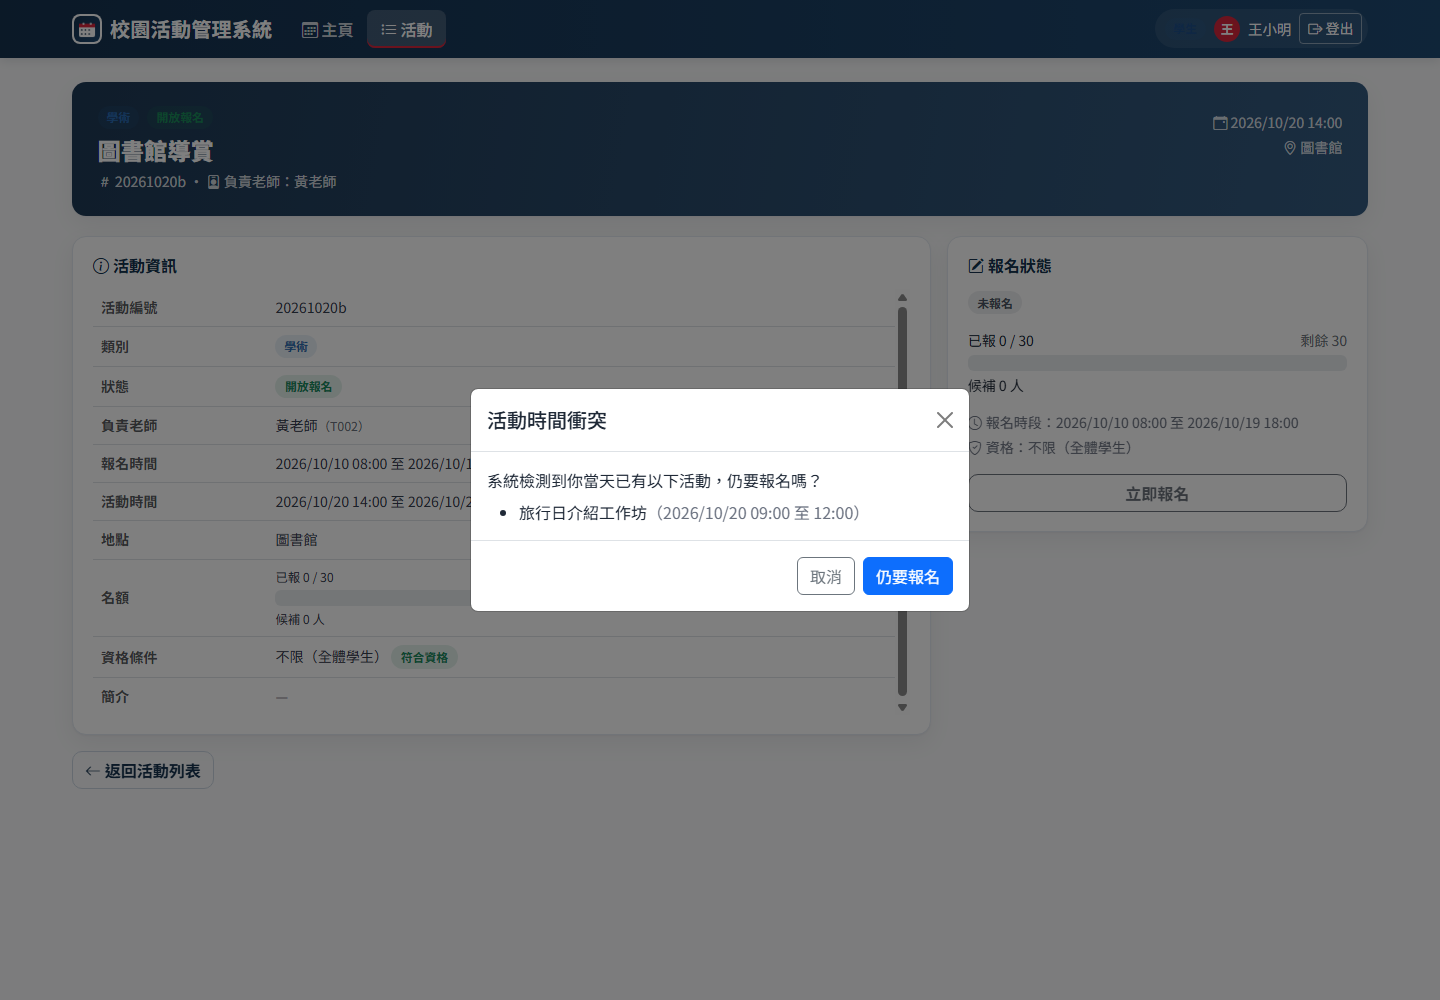
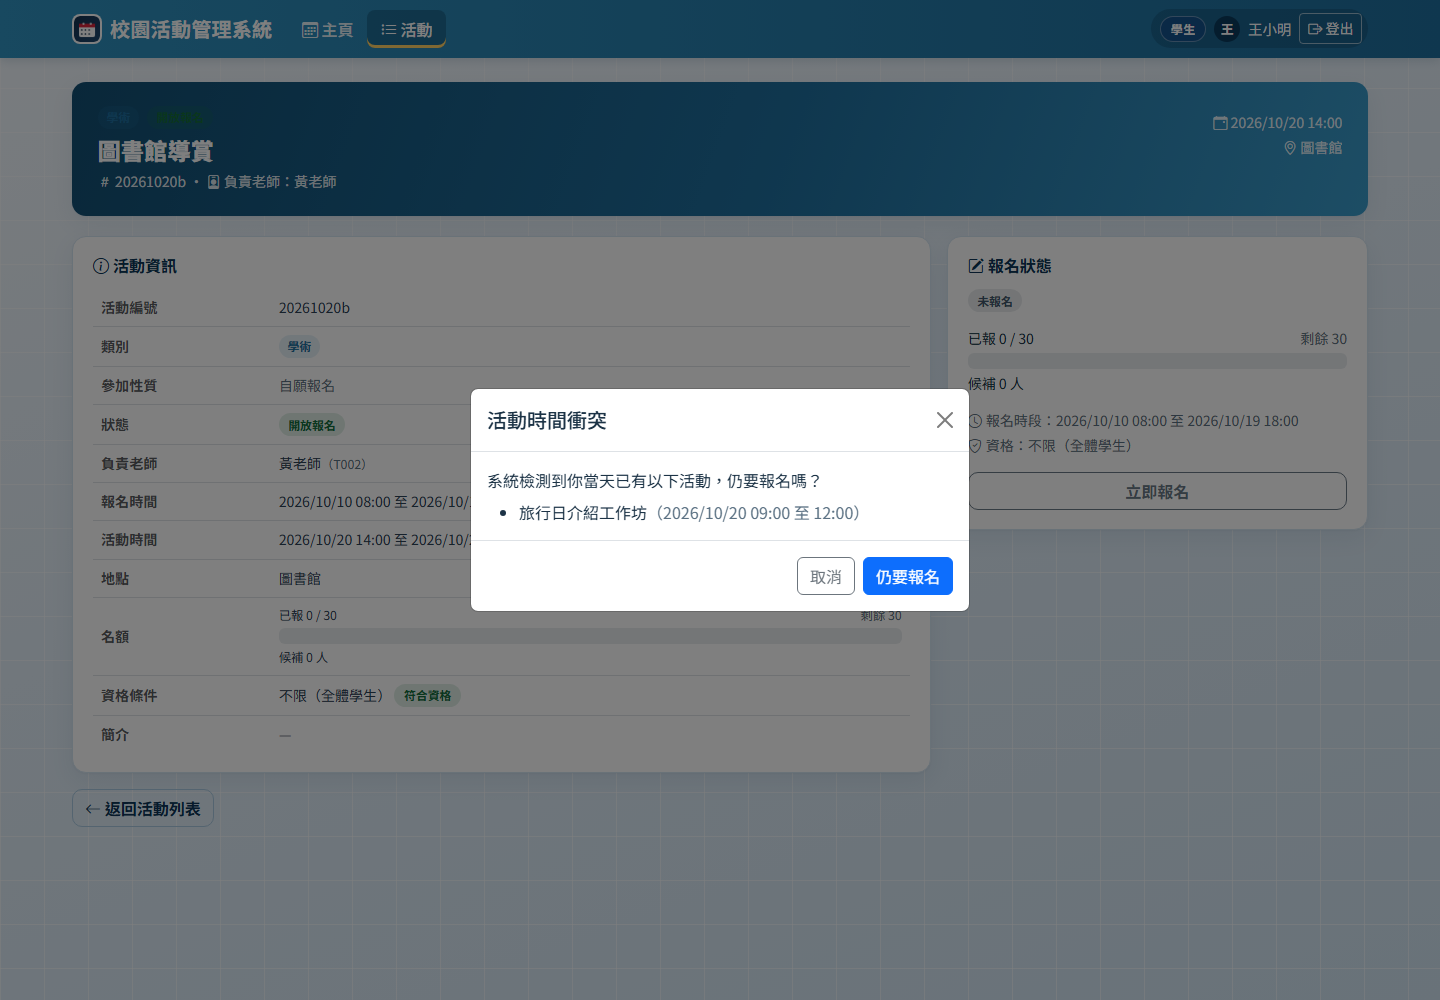
docs(v1.1): 更新測試報告（45/45）、17 張截圖、運行說明與測試帳號示範路線

diff --git a/README.md b/README.md
@@ -9,11 +9,11 @@
 
 | 角色 | 可以做甚麼 |
 | --- | --- |
-| **學生 Student** | 用日曆／列表瀏覽活動 → 查看詳情（時間有否撞期、名額是否已滿、自己是否符合資格）→ 報名（滿額自動進入候補）→ 取消報名 → 查看「已參加／未參加」 |
-| **老師 Teacher** | 新增／修改／取消自己負責的活動 → 查看報名名單 → 標記出席 → 收到每日活動提醒電郵 |
+| **學生 Student** | 用日曆／列表瀏覽活動 → 查看詳情（時間有否撞期、名額是否已滿、自己是否符合資格）→ 報名（滿額自動進入候補）→ 取消報名 → 查看「已參加／未參加」（必須參加的活動會自動報名，不可取消） |
+| **老師 Teacher** | 新增／修改／取消自己負責的活動（資格用點選式多選：班級／年級／學會）→ 設定「必須參加」讓合資格學生自動報名 → 查看報名名單 → 活動開始後標記出席 → 收到每日活動提醒電郵 |
 | **管理員 Admin** | 擁有老師全部權限，另可查看數據報表、管理所有用戶的角色（Student / Teacher / Admin） |
 
-主要功能：活動分類、活動日曆（公眾假期紅日、我主持／已報名分色）、撞期警告（只警告不攔截）、候補名單自動遞補、名額控制、資格限制（班級／年級／學會／職位）、權限控制、數據統計圖表、每日郵件提醒。
+主要功能：活動分類、活動日曆（公眾假期紅日、我主持／已報名／必須參加分色，手機可橫向滾動）、撞期警告（只警告不攔截）、候補名單自動遞補、名額控制、資格限制（班級／年級／學會／職位，**白名單點選**）、**必須參加活動（自動報名＋不能取消）**、點名時序限制（活動開始後才可點名）、權限控制、數據統計圖表（出席率只計已開始活動）、每日郵件提醒。
 
 ---
 
@@ -61,8 +61,8 @@ CampusEventSystem/
 | `04_运行说明.md` | 兩種啟動方式（本機示範 / 真正部署到 Google）+ 排錯 |
 | `05_API契约与数据字典.md` | **開發契約**：所有 action、請求／回應格式、錯誤碼、欄位定義 |
 | `06_GitHub实战教程.md` | 由零開始的 GitHub 實戰教程（推送、分支、PR、Actions、Pages…） |
-| `07_测试报告与验收.md` | 自動化測試結果（26/26）、手動驗收腳本、已修問題與已知限制 |
-| `screenshots/` | 11 張實際執行截圖（登入、主頁、列表、詳情、後台、統計） |
+| `07_测试报告与验收.md` | 自動化測試結果（45/45）、手動驗收腳本、已修問題與已知限制 |
+| `screenshots/` | 17 張實際執行截圖（登入、主頁、列表、詳情、後台、點名、統計、手機版） |
 
 ---
 
@@ -102,6 +102,8 @@ node 4-local-demo\server.js
 1. 依 `3-docs/01_数据库结构说明.md` 建立一份 Google 試算表（4 張工作表）。
 2. 在試算表「擴充功能 → Apps Script」貼上 `2-backend` 的 7 個 `.gs` 檔。
 3. 執行 `setupDatabase` 初始化資料 → 部署為網頁應用程式（存取權限：任何人）。
+
+   > **v1.1 升級提醒**：Events 工作表多了第 R 欄 `IsMandatory`，種子資料也更新了。由舊版升級時請重新執行一次 `setupDatabase()`（會重建工作表與種子），然後**重新部署** Web App（管理部署 → 編輯 → 版本：新版本），舊的 `/exec` 網址才會有新欄位與新錯誤碼。
 4. 把部署得到的 `/exec` 網址填入 `1-frontend/assets/js/api.js` 的 `GAS_API` 常數。
 5. 前端可放到 GitHub Pages（本專案已附 Actions 工作流程）。
 
@@ -129,13 +131,13 @@ node 4-local-demo\server.js
 
 ## 七、實際執行畫面
 
-以下截圖全部由 headless Chrome 實際操作本機示範伺服器產生（完整 11 張見 `3-docs/screenshots/`）：
+以下截圖全部由 headless Chrome 實際操作本機示範伺服器產生（完整 17 張見 `3-docs/screenshots/`）：
 
-**學生主頁（月曆 + 統計 + 即將舉行）**
+**學生主頁（月曆 + 統計 + 即將舉行；升旗禮帶「必須參加」紅徽章）**
 
 ![學生主頁](3-docs/screenshots/02-dashboard-student.png)
 
-**活動列表（四個 Tab、資格與我的狀態）**
+**活動列表（四個 Tab、資格與我的狀態；必須參加不可取消）**
 
 ![活動列表](3-docs/screenshots/03-events-student.png)
 
@@ -143,15 +145,31 @@ node 4-local-demo\server.js
 
 ![撞期確認](3-docs/screenshots/05-detail-conflict-modal.png)
 
-**老師／管理員後台**
+**必須參加活動的詳情頁**
+
+![必須參加詳情](3-docs/screenshots/16-detail-mandatory.png)
+
+**老師／管理員後台（資格改為點選式 chips）**
 
 ![老師後台](3-docs/screenshots/07-admin-teacher-list.png)
 
-**數據報表（Chart.js）**
+**新增活動：班級／年級／學會只能用點的（白名單）**
+
+![新增活動表單](3-docs/screenshots/08-admin-event-modal.png)
+
+**點名時序：活動未開始不可點名**
+
+![未開始不可點名](3-docs/screenshots/15-admin-attendance-locked.png)
+
+**數據報表（出席率只計已開始活動）**
 
 ![數據報表](3-docs/screenshots/11-stats.png)
 
-> 測試結果：端到端 26/26 全部通過，詳見 `3-docs/07_测试报告与验收.md`。
+**手機版：日曆可橫向滑動**
+
+![手機主頁](3-docs/screenshots/12-mobile-dashboard.png)
+
+> 測試結果：端到端 45/45 全部通過，詳見 `3-docs/07_测试报告与验收.md`。
 
 ---
 

diff --git a/3-docs/05_API契约与数据字典.md b/3-docs/05_API契约与数据字典.md
@@ -344,3 +344,61 @@ CDN：
 - **event_detail.html**：`?id=` 取详情；信息表；报名/取消/候补按钮按状态渲染；撞期二次确认；名额与资格提示；返回列表。
 - **admin.html**：`requireLogin(['Teacher','Admin'])`；活动管理（新增/修改/取消，modal 表单 + 前端校验）、报名管理（选活动 → 两表 + 点名）、权限管理（仅 Admin）。
 - **stats.html**：`requireLogin(['Teacher','Admin'])`；4 张统计卡 + 饼图（出席/缺席）+ 柱状图（各班级参与人次）+ 活动明细表。
+
+---
+
+## 7. v1.1 變更（必須參加 / 資格選項化 / 點名時序）
+
+> 本節優先於前文；未提及部分維持不變。修改範圍：`2-backend/01~07*.gs`、`4-local-demo/server.js`、`1-frontend/admin.html`、`assets/js/admin.js`、`assets/js/{event,calendar}.js`、`assets/css/style.css`、`3-docs/*`。
+
+### 7.1 `Events` 新增列（追加在 Q 之後，不影響既有 A–Q 欄位）
+| 列 | 字段 | 说明 |
+|---|---|---|
+| R | IsMandatory | `TRUE` = 必須參加（老師點名、自動報名）；`FALSE` = 自願報名。舊資料缺列一律視為 `FALSE`。 |
+
+### 7.2 資格選項白名單（前後端共用，禁止自由輸入）
+```js
+CLASS_OPTIONS = ['1A','1B','1C','1D','2A','2B','2C','2D','3A','3B','3C','3D',
+                 '4A','4B','4C','4D','5A','5B','5C','5D','6A','6B','6C','6D'];
+GRADE_OPTIONS = ['S1','S2','S3','S4','S5','S6'];
+CLUB_OPTIONS  = ['學生會','美術學會','體育學會','音樂學會','戲劇學會',
+                 '義工團','圖書館學會','科學學會','環保學會','攝影學會'];
+```
+- `EligibleClasses` / `EligibleGrades` / `EligibleClubs` 只接受 `ALL`、空字串（=ALL）或白名單值逗號串。
+- `manageEvent` 校驗：含非法值 → `VALIDATION_ERROR`，message 指出非法值（例：「允許班級含無效值：12」）。
+
+### 7.3 EventView 增量
+`getEvents`、`getEvent`、`getCalendarData`、`getParticipantList` 回傳的活動物件全部追加：
+- `isMandatory: boolean`
+- `started: boolean`（`now >= EventStart`）
+
+### 7.4 `manageEvent` 增量
+- 請求 `event` 物件追加 `isMandatory: boolean`。
+- create/update 保存成功後：若 `isMandatory === true`，為「所有符合資格、且尚無有效報名（非 Cancelled）」的學生自動建立 `Confirmed` 報名（RegTime = 當前時間，Attended = `No`）；成功 data 追加 `"autoEnrolled": <number>`。
+
+### 7.5 `cancelRegistration` 增量
+活動 `IsMandatory = TRUE` → 錯誤碼 `MANDATORY_EVENT`，message「必須參加的活動不可取消報名，請聯絡負責老師」。
+
+### 7.6 `markAttendance` 增量
+校驗順序：權限 → 活動存在且 Active → **`now < EventStart` → `EVENT_NOT_STARTED`（「活動尚未開始，不能點名」）** → 目標 Confirmed 報名存在。
+錯誤碼表追加：`MANDATORY_EVENT`、`EVENT_NOT_STARTED`。
+
+### 7.7 `getDashboardStats` 增量
+- `totals` 追加 `startedEvents`（EventStart ≤ now 的 Active 活動數）、`pendingEvents`（未開始數）。
+- `totals.attendanceRate` 只統計「已開始活動」的 Confirmed：`attended / confirmedInStartedEvents * 100`，1 位小數，分母 0 → `0`。
+- `byEvent[]` 追加 `started: boolean`、`isMandatory: boolean`、`attendanceRate: number|null`（未開始 → `null`）。
+
+### 7.8 種子資料增量
+- `20260925a 中秋節慶祝會`：`IsMandatory = TRUE`；補齊全部 5 位學生自動報名（新增 `20260925a S2203 Confirmed No 2026-09-12 10:00`、`20260925a S2205 Confirmed No 2026-09-12 11:00`）。
+- 新增第 10 個活動 `20261019a 升旗禮（必須參加示範）`：類別 `其他`、地點 `操場`、RegStart `2026-10-15 08:00`、RegEnd `2026-10-18 18:00`、EventStart `2026-10-19 08:00`、EventEnd `2026-10-19 08:30`、Classes/Clubs/Grades 全 `ALL`、RequireOfficer `FALSE`、MaxQuota `0`、HostID `T001`、IsMandatory `TRUE`、CreatedAt `2026-10-01 09:00`。
+- 為 `20261019a` 寫入 5 筆自動報名：`S2201` 09:00、`S2202` 09:01、`S2203` 09:02、`S2204` 09:03、`S2205` 09:04（皆 Confirmed / No，日期 2026-10-16）。
+- 其餘 8 個活動 `IsMandatory = FALSE`；活動總數 10 個。
+- `setupDatabase()` 寫入 Events 時 R 欄填 `TRUE`/`FALSE`；既有表若缺 R 欄標題則自動補上。
+
+### 7.9 共享 CSS 類（Lead 在 `style.css` 提供，直接使用）
+| 類 | 用途 |
+|---|---|
+| `.badge-mandatory` | 紅色「必須參加」徽章（表格、卡片、詳情頁） |
+| `.chip-group` + `.chip-option`（內含 `<input type="checkbox">`） | 後台資格多選（班級/年級/學會） |
+| `.fc-event-mandatory` | 日曆「必須參加」事件配色 |
+| `.text-pending` | 灰字「活動尚未開始」提示 |

diff --git a/3-docs/01_数据库结构说明.md b/3-docs/01_数据库结构说明.md
@@ -43,6 +43,9 @@
 | O | Description | 文本（长） | 简介 / 补充说明 |
 | P | Status | 枚举文本 | `Active` / `Cancelled`（取消 = 软删除） |
 | Q | CreatedAt | 文本日期时间 | `2026-10-01 09:00` |
+| R | IsMandatory | 布尔文本 | `TRUE` = **必须参加**（老师点名的活动：创建后自动为合资格学生报名，学生不能取消，未点名会记录为缺席）；`FALSE` / 空 = 自愿报名 |
+
+> **资格字段的取值范围（v1.1 起强制白名单）**：`EligibleClasses` 只能是 `ALL` 或 `1A`–`6D` 共 24 个班别；`EligibleGrades` 只能是 `ALL` 或 `S1`–`S6`；`EligibleClubs` 只能是 `ALL` 或下列学会之一（逗号分隔）：`學生會`、`美術學會`、`體育學會`、`音樂學會`、`戲劇學會`、`義工團`、`圖書館學會`、`科學學會`、`環保學會`、`攝影學會`。后台已改为点选式多选，服务端也会拒绝非法值（`VALIDATION_ERROR`）。
 
 ## 3. Registrations（报名表）
 
@@ -54,6 +57,9 @@
 | D | Status | 枚举文本 | `Confirmed`（正取）/ `Waitlist`（候补）/ `Cancelled`（已取消） |
 | E | Attended | 枚举文本 | `Yes` / `No`（点名结果） |
 | F | RegTime | 文本日期时间 | 报名时间；**候补递补按此字段先来后到** |
+
+> **必须参加的活动（Events.IsMandatory = TRUE）**：老师保存活动时，后端会为所有符合资格、且尚无有效报名的学生自动写入一条 `Confirmed` 记录（`Attended=No`）。因此「必须参加」的活动点名名单天然齐全，不会有人漏掉。学生无法取消（API 回 `MANDATORY_EVENT`）。
+> **点名时序**：只有在 `EventStart` 到达之后才允许标记出席，之前调用 `markAttendance` 会得到 `EVENT_NOT_STARTED`；统计页的出席率也只统计**已开始**的活动。
 
 ## 4. Holidays（红日表）
 

diff --git a/3-docs/04_运行说明.md b/3-docs/04_运行说明.md
@@ -73,6 +73,9 @@ npx --yes http-server 1-frontend -p 5500 -c-1
    （出现“不安全”是因为这是你自建的未发布应用，正常现象。）
 3. 回到试算表，确认出现 `Users` / `Events` / `Registrations` / `Holidays` 四张表且已有数据。
 
+> **v1.1 注意**：`Events` 工作表多了第 R 栏 `IsMandatory`（必须参加），种子数据变成 10 个活动 / 17 笔报名。
+> 若你是从旧版升级，请重新执行一次 `setupDatabase()`（会清空重建四张表），然后再「部署 → 管理部署 → 编辑 → 新版本」重新部署，线上才会认 `isMandatory` 与新错误码。
+
 ### 4. 部署为 Web App（拿 API 地址）
 
 1. 右上角「部署 → 新建部署 → 选择类型：网页应用」。
